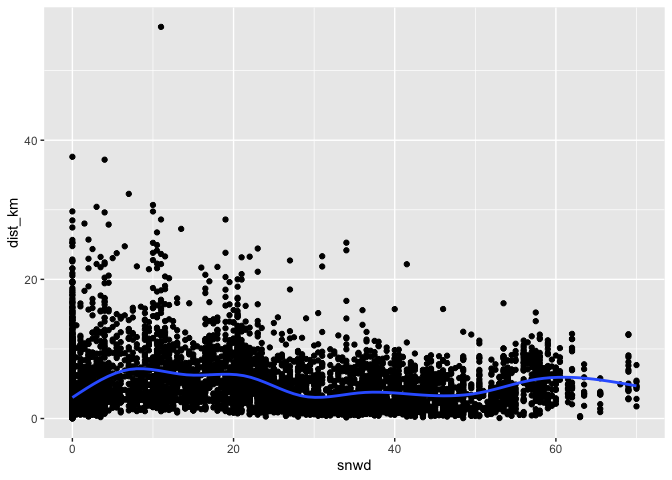
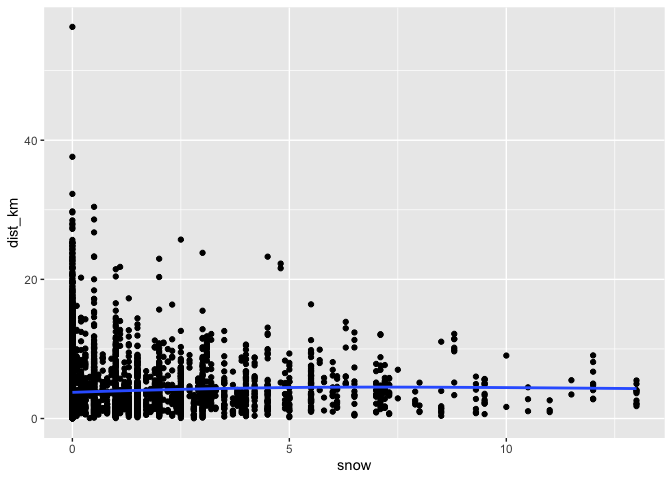
refine plots

diff --git a/DM_analysis/weather.md b/DM_analysis/weather.md
@@ -466,13 +466,15 @@ all_data |>
 
 ![](weather_files/figure-gfm/unnamed-chunk-10-1.png)<!-- -->
 
-Land cover.
+Daily elk.
 
 ``` r
-daily_elk =
-  all_data |>
+daily_elk <- 
+  all_data |> 
+  mutate(year_month_day = format(dt, "%Y-%m-%d")) |> 
   group_by(
     elk_id,
+    year_month_day, 
     year,
     month,
     day,
@@ -487,8 +489,11 @@ daily_elk =
   )
 ```
 
-    ## `summarise()` has grouped output by 'elk_id', 'year', 'month', 'day', 'tavg',
-    ## 'prcp', 'snow'. You can override using the `.groups` argument.
+    ## `summarise()` has grouped output by 'elk_id', 'year_month_day', 'year',
+    ## 'month', 'day', 'tavg', 'prcp', 'snow'. You can override using the `.groups`
+    ## argument.
+
+Land cover.
 
 ``` r
 daily_elk |> 
@@ -498,7 +503,7 @@ daily_elk |>
 
     ## `stat_bin()` using `bins = 30`. Pick better value with `binwidth`.
 
-![](weather_files/figure-gfm/unnamed-chunk-11-1.png)<!-- -->
+![](weather_files/figure-gfm/unnamed-chunk-12-1.png)<!-- -->
 
 Elk mvmt vs precip.
 
@@ -517,12 +522,11 @@ daily_elk |>
     ## Warning: Removed 143 rows containing missing values or values outside the scale range
     ## (`geom_point()`).
 
-![](weather_files/figure-gfm/unnamed-chunk-12-1.png)<!-- -->
+![](weather_files/figure-gfm/unnamed-chunk-13-1.png)<!-- -->
 
 ``` r
 daily_elk |> 
-  ggplot(aes(x = prcp, y = dist_km, color = as.factor(year))) + 
-  geom_point() + 
+  ggplot(aes(x = prcp, y = dist_km, color = factor(year))) + 
   geom_smooth(se = FALSE)
 ```
 
@@ -530,45 +534,8 @@ daily_elk |>
 
     ## Warning: Removed 143 rows containing non-finite outside the scale range
     ## (`stat_smooth()`).
-    ## Removed 143 rows containing missing values or values outside the scale range
-    ## (`geom_point()`).
 
-![](weather_files/figure-gfm/unnamed-chunk-12-2.png)<!-- -->
-
-``` r
-daily_elk |> 
-  ggplot(aes(x = prcp, y = dist_km)) + 
-  geom_hex() + 
-  geom_smooth(se = FALSE)
-```
-
-    ## Warning: Removed 143 rows containing non-finite outside the scale range
-    ## (`stat_binhex()`).
-
-    ## `geom_smooth()` using method = 'gam' and formula = 'y ~ s(x, bs = "cs")'
-
-    ## Warning: Removed 143 rows containing non-finite outside the scale range
-    ## (`stat_smooth()`).
-
-![](weather_files/figure-gfm/unnamed-chunk-12-3.png)<!-- -->
-
-``` r
-daily_elk |> 
-  ggplot(aes(x = prcp, y = dist_km)) + 
-  geom_hex() + 
-  geom_smooth(se = FALSE) + 
-  facet_wrap(vars(year), ncol = 5)
-```
-
-    ## Warning: Removed 143 rows containing non-finite outside the scale range
-    ## (`stat_binhex()`).
-
-    ## `geom_smooth()` using method = 'gam' and formula = 'y ~ s(x, bs = "cs")'
-
-    ## Warning: Removed 143 rows containing non-finite outside the scale range
-    ## (`stat_smooth()`).
-
-![](weather_files/figure-gfm/unnamed-chunk-12-4.png)<!-- -->
+![](weather_files/figure-gfm/unnamed-chunk-13-2.png)<!-- -->
 
 Elk mvmt vs. snowfall.
 
@@ -581,64 +548,26 @@ daily_elk |>
 
     ## `geom_smooth()` using method = 'gam' and formula = 'y ~ s(x, bs = "cs")'
 
-    ## Warning: Removed 1274 rows containing non-finite outside the scale range
+    ## Warning: Removed 1296 rows containing non-finite outside the scale range
     ## (`stat_smooth()`).
 
-    ## Warning: Removed 1274 rows containing missing values or values outside the scale range
+    ## Warning: Removed 1296 rows containing missing values or values outside the scale range
     ## (`geom_point()`).
 
-![](weather_files/figure-gfm/unnamed-chunk-13-1.png)<!-- -->
+![](weather_files/figure-gfm/unnamed-chunk-14-1.png)<!-- -->
 
 ``` r
 daily_elk |> 
   ggplot(aes(x = snow, y = dist_km, color = as.factor(year))) + 
-  geom_point() + 
   geom_smooth(se = FALSE)
 ```
 
     ## `geom_smooth()` using method = 'gam' and formula = 'y ~ s(x, bs = "cs")'
 
-    ## Warning: Removed 1274 rows containing non-finite outside the scale range
-    ## (`stat_smooth()`).
-    ## Removed 1274 rows containing missing values or values outside the scale range
-    ## (`geom_point()`).
-
-![](weather_files/figure-gfm/unnamed-chunk-13-2.png)<!-- -->
-
-``` r
-daily_elk |> 
-  ggplot(aes(x = snow, y = dist_km)) + 
-  geom_hex() + 
-  geom_smooth(se = FALSE)
-```
-
-    ## Warning: Removed 1274 rows containing non-finite outside the scale range
-    ## (`stat_binhex()`).
-
-    ## `geom_smooth()` using method = 'gam' and formula = 'y ~ s(x, bs = "cs")'
-
-    ## Warning: Removed 1274 rows containing non-finite outside the scale range
+    ## Warning: Removed 1296 rows containing non-finite outside the scale range
     ## (`stat_smooth()`).
 
-![](weather_files/figure-gfm/unnamed-chunk-13-3.png)<!-- -->
-
-``` r
-daily_elk |> 
-  ggplot(aes(x = snow, y = dist_km)) + 
-  geom_hex() + 
-  geom_smooth(se = FALSE) + 
-  facet_wrap(vars(year), ncol = 5)
-```
-
-    ## Warning: Removed 1274 rows containing non-finite outside the scale range
-    ## (`stat_binhex()`).
-
-    ## `geom_smooth()` using method = 'gam' and formula = 'y ~ s(x, bs = "cs")'
-
-    ## Warning: Removed 1274 rows containing non-finite outside the scale range
-    ## (`stat_smooth()`).
-
-![](weather_files/figure-gfm/unnamed-chunk-13-4.png)<!-- -->
+![](weather_files/figure-gfm/unnamed-chunk-14-2.png)<!-- -->
 
 Elk mvmt vs. snow depth.
 
@@ -651,64 +580,26 @@ daily_elk |>
 
     ## `geom_smooth()` using method = 'gam' and formula = 'y ~ s(x, bs = "cs")'
 
-    ## Warning: Removed 184 rows containing non-finite outside the scale range
+    ## Warning: Removed 185 rows containing non-finite outside the scale range
     ## (`stat_smooth()`).
 
-    ## Warning: Removed 184 rows containing missing values or values outside the scale range
+    ## Warning: Removed 185 rows containing missing values or values outside the scale range
     ## (`geom_point()`).
 
-![](weather_files/figure-gfm/unnamed-chunk-14-1.png)<!-- -->
+![](weather_files/figure-gfm/unnamed-chunk-15-1.png)<!-- -->
 
 ``` r
 daily_elk |> 
   ggplot(aes(x = snwd, y = dist_km, color = as.factor(year))) + 
-  geom_point() + 
   geom_smooth(se = FALSE)
 ```
 
     ## `geom_smooth()` using method = 'gam' and formula = 'y ~ s(x, bs = "cs")'
 
-    ## Warning: Removed 184 rows containing non-finite outside the scale range
-    ## (`stat_smooth()`).
-    ## Removed 184 rows containing missing values or values outside the scale range
-    ## (`geom_point()`).
-
-![](weather_files/figure-gfm/unnamed-chunk-14-2.png)<!-- -->
-
-``` r
-daily_elk |> 
-  ggplot(aes(x = snwd, y = dist_km)) + 
-  geom_hex() + 
-  geom_smooth(se = FALSE)
-```
-
-    ## Warning: Removed 184 rows containing non-finite outside the scale range
-    ## (`stat_binhex()`).
-
-    ## `geom_smooth()` using method = 'gam' and formula = 'y ~ s(x, bs = "cs")'
-
-    ## Warning: Removed 184 rows containing non-finite outside the scale range
+    ## Warning: Removed 185 rows containing non-finite outside the scale range
     ## (`stat_smooth()`).
 
-![](weather_files/figure-gfm/unnamed-chunk-14-3.png)<!-- -->
-
-``` r
-daily_elk |> 
-  ggplot(aes(x = snwd, y = dist_km)) + 
-  geom_hex() + 
-  geom_smooth(se = FALSE) + 
-  facet_wrap(vars(year), ncol = 5)
-```
-
-    ## Warning: Removed 184 rows containing non-finite outside the scale range
-    ## (`stat_binhex()`).
-
-    ## `geom_smooth()` using method = 'gam' and formula = 'y ~ s(x, bs = "cs")'
-
-    ## Warning: Removed 184 rows containing non-finite outside the scale range
-    ## (`stat_smooth()`).
-
-![](weather_files/figure-gfm/unnamed-chunk-14-4.png)<!-- -->
+![](weather_files/figure-gfm/unnamed-chunk-15-2.png)<!-- -->
 
 Elk mvmt vs avg temp.
 
@@ -727,12 +618,11 @@ daily_elk |>
     ## Warning: Removed 143 rows containing missing values or values outside the scale range
     ## (`geom_point()`).
 
-![](weather_files/figure-gfm/unnamed-chunk-15-1.png)<!-- -->
+![](weather_files/figure-gfm/unnamed-chunk-16-1.png)<!-- -->
 
 ``` r
 daily_elk |> 
   ggplot(aes(x = tavg, y = dist_km, color = as.factor(year))) + 
-  geom_point() + 
   geom_smooth(se = FALSE)
 ```
 
@@ -740,42 +630,5 @@ daily_elk |>
 
     ## Warning: Removed 143 rows containing non-finite outside the scale range
     ## (`stat_smooth()`).
-    ## Removed 143 rows containing missing values or values outside the scale range
-    ## (`geom_point()`).
 
-![](weather_files/figure-gfm/unnamed-chunk-15-2.png)<!-- -->
-
-``` r
-daily_elk |> 
-  ggplot(aes(x = tavg, y = dist_km)) + 
-  geom_hex() + 
-  geom_smooth(se = FALSE)
-```
-
-    ## Warning: Removed 143 rows containing non-finite outside the scale range
-    ## (`stat_binhex()`).
-
-    ## `geom_smooth()` using method = 'gam' and formula = 'y ~ s(x, bs = "cs")'
-
-    ## Warning: Removed 143 rows containing non-finite outside the scale range
-    ## (`stat_smooth()`).
-
-![](weather_files/figure-gfm/unnamed-chunk-15-3.png)<!-- -->
-
-``` r
-daily_elk |> 
-  ggplot(aes(x = tavg, y = dist_km)) + 
-  geom_hex() + 
-  geom_smooth(se = FALSE) + 
-  facet_wrap(vars(year), ncol = 5)
-```
-
-    ## Warning: Removed 143 rows containing non-finite outside the scale range
-    ## (`stat_binhex()`).
-
-    ## `geom_smooth()` using method = 'gam' and formula = 'y ~ s(x, bs = "cs")'
-
-    ## Warning: Removed 143 rows containing non-finite outside the scale range
-    ## (`stat_smooth()`).
-
-![](weather_files/figure-gfm/unnamed-chunk-15-4.png)<!-- -->
+![](weather_files/figure-gfm/unnamed-chunk-16-2.png)<!-- -->
